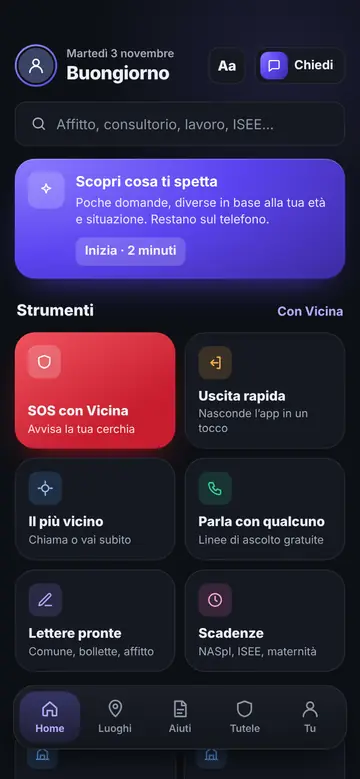
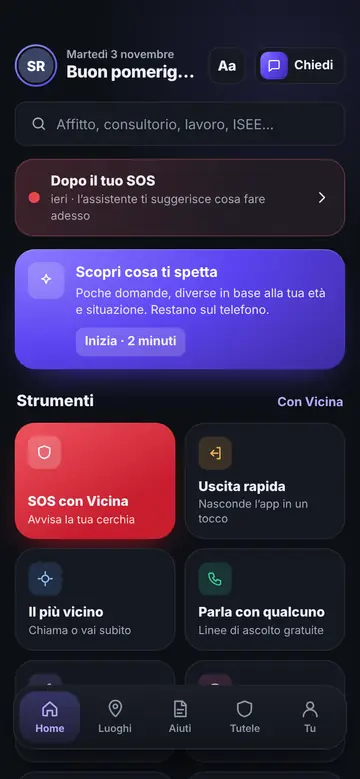
4.5.0: invito a Vicina Extra in chat con tasto Installa, aggiornamenti tra le due app con l'AI da ponte, rilevamento e apertura di Vicina Extra più affidabili
Claude-Session: https://claude.ai/code/session_01R2nNoP8uqX5XBgKxekQTAd

diff --git a/src/app.js b/src/app.js
@@ -396,7 +396,7 @@ export function boot(api, native) {
   }
   /* ================= Vicina Extra: l'app sorella ================= */
   // Le due app si aprono a vicenda con un link e si passano le informazioni (sul telefono, senza server).
-  const EXTRA = { pkg: 'it.vicina.extra', scheme: 'vicinaextra://', apk: 'https://github.com/conaeduardo4-cmyk/vicina-extra/releases/latest/download/VicinaExtra.apk', web: 'https://vicina.netlify.app/extra' };
+  const EXTRA = { pkg: 'it.vicina.extra', scheme: 'vicinaextra://', apk: 'https://github.com/conaeduardo4-cmyk/vicina-extra/releases/latest/download/VicinaExtra.apk', ipa: 'https://github.com/conaeduardo4-cmyk/vicina-extra/releases/latest/download/VicinaExtra.ipa', web: 'https://vicina.netlify.app/extra' };
   const xPack = o => btoa(unescape(encodeURIComponent(JSON.stringify(o)))).replace(/\+/g, '-').replace(/\//g, '_').replace(/=+$/, '');
   const xUnpack = s => { try { return JSON.parse(decodeURIComponent(escape(atob(String(s).replace(/-/g, '+').replace(/_/g, '/'))))); } catch { return null; } };
   const fromExtra = () => { try { return JSON.parse(ls.get('extra:info') || 'null'); } catch { return null; } };
@@ -405,7 +405,7 @@ export function boot(api, native) {
   let xInstalled = false, xFrom = 's-home';
   async function openExtra(path) {
     const url = EXTRA.scheme + path + (path.includes('?') ? '&' : '?') + 'd=' + xPack(forExtra());
-    if (await native.appInstalled?.(EXTRA.pkg)) { try { await native.openUrl(url); return; } catch {} }
+    if (await native.openApp?.(EXTRA.pkg, '', url)) return;
     openExtraScreen();
   }
   async function installExtra(btn) {
@@ -417,10 +417,25 @@ export function boot(api, native) {
     } catch (e) { toast(e?.message || 'Download non riuscito, riprova'); }
     finally { btn.disabled = false; btn.innerHTML = lab; }
   }
+  // tasto «Installa» dell'invito in chat: Android installa subito, iPhone scarica l'IPA, nel browser il sito
+  async function appInvite(btn) {
+    if (await native.openApp?.(EXTRA.pkg, '', EXTRA.scheme + 'vicina?d=' + xPack(forExtra()))) return;
+    const plat = native.isNative ? (native.update?.autoInstall ? 'android' : 'ios') : 'web';
+    if (plat === 'android') return installExtra(btn);
+    if (plat === 'ios' && native.update?.saveIpa) {
+      const lab = btn.innerHTML; btn.disabled = true;
+      try { const f = await native.update.saveIpa(EXTRA.ipa, 'VicinaExtra.ipa', p => { btn.textContent = `Scarico… ${Math.round(p)}%`; }); toast('Scaricata in File › Vicina › Aggiornamenti'); await native.update.shareFile?.(f.uri, 'Vicina Extra'); }
+      catch (e) { toast(e?.message || 'Download non riuscito'); native.openUrl(EXTRA.web); }
+      finally { btn.disabled = false; btn.innerHTML = lab; }
+      return;
+    }
+    native.openUrl(EXTRA.web);
+  }
   const xShots = ['home', 'luoghi', 'aiuti', 'lettere'].map(n => `altra/extra-${n}.webp`);
   const xRow = (ic, c, t, s, a = '', u = '') => `<${a ? 'button' : 'div'} class="v4-row"${a ? ` data-a="${a}"` : ''}${u ? ` data-u="${u}"` : ''}><i class="sq ${c}">${I(ic)}</i><div class="fl"><b>${t}</b><span>${s}</span></div>${a ? I('chev', 'chev') : ''}</${a ? 'button' : 'div'}>`;
   async function rExtra() {
     xInstalled = !!(await native.appInstalled?.(EXTRA.pkg));
+    if (!xAgg && st.uid) setTimeout(xLoadAgg, 0);
     const x = fromExtra(), go = xInstalled ? 'x-open' : '';
     $('#x-chip').textContent = xInstalled ? 'Installata' : native.update?.autoInstall ? 'Non installata' : 'App per Android';
     $('#x-chip').classList.toggle('ok', xInstalled);
@@ -432,6 +447,8 @@ export function boot(api, native) {
       ${xInstalled ? `<button class="btn x-btn" data-a="x-open" data-u="home">${I('heart')}Apri Vicina Extra</button>` : `<button class="btn x-btn" data-a="x-install">${I('share')}${native.update?.autoInstall ? 'Installa Vicina Extra' : 'Scarica Vicina Extra'}</button>`}
       ${x ? `<div class="v4-card">${xRow('check', 'green', 'Collegata' + (x.got ? ' · ' + new Date(x.got).toLocaleDateString('it-IT', { day: 'numeric', month: 'short' }) : ''), (x.saved ? x.saved + ' luoghi salvati · ' : '') + (x.sit?.length ? 'guide scelte per te qui sotto' : 'le due app si sono scambiate le informazioni'))}
         ${(x.sit || []).map(([id, t]) => xRow('book', 'violet', esc(t), 'Apri la guida in Vicina Extra', go || 'open-extra', 'aiuto/' + esc(id))).join('')}</div>` : ''}
+      <h2 class="x-h">Aggiornamenti tra le due app</h2>
+      <div id="x-agg">${xAggHtml()}</div>
       <h2 class="x-h">Vai subito a</h2>
       <div class="v4-card">
         ${xRow('shield', 'violet', 'Centri antiviolenza', 'Il più vicino, con telefono e percorso', go || 'open-extra', 'luoghi/antiviolenza')}
@@ -453,6 +470,42 @@ export function boot(api, native) {
         ${xRow('user', 'green', 'Stesso account', 'Nome, foto e banner sono gli stessi.')}
       </div>
       <p class="v4-note center">L'APK arriva dalle release ufficiali su GitHub.</p>`;
+  }
+  // aggiornamenti: SOS recenti (da qui) + cosa arriva da Vicina Extra, con l'assistente che fa da ponte
+  let xAgg = null, xAi = (() => { try { return JSON.parse(ls.get('x:aggai') || 'null'); } catch { return null; } })();
+  const xWhen = t => new Date(t).toLocaleString('it-IT', { weekday: 'short', day: 'numeric', month: 'short', hour: '2-digit', minute: '2-digit' });
+  const xDur = (a, b) => { const m = Math.round((new Date(b) - new Date(a)) / 60000); return m < 60 ? m + ' min' : Math.round(m / 60) + ' ore'; };
+  function xEvents() {
+    const ev = [], x = fromExtra();
+    for (const s of xAgg?.mine || []) ev.push(['alert', 'red', s.active ? 'SOS in corso' : 'Hai mandato un SOS', xWhen(s.created_at) + (s.resolved_at ? ' · chiuso dopo ' + xDur(s.created_at, s.resolved_at) : '')]);
+    for (const s of xAgg?.got || []) ev.push(['people', 'red', `${esc(s.from_name || 'Qualcuno')} ha chiesto aiuto`, xWhen(s.created_at) + (s.resolved_at ? ' · ora è al sicuro' : '')]);
+    for (const [t, due] of x?.dead || []) { const d = Math.ceil((due - Date.now()) / 864e5); if (d >= 0) ev.push(['clock', 'amber', esc(t), d === 0 ? 'Scade oggi (da Vicina Extra)' : `Scade tra ${d} giorni (da Vicina Extra)`]); }
+    for (const t of x?.docs || []) ev.push(['file', 'violet', esc(t), 'Documento creato in Vicina Extra']);
+    return ev;
+  }
+  function xAggHtml() {
+    const ev = xEvents();
+    return `<div class="v4-card x-ai"><div class="v4-row"><i class="sq violet">${I('spark')}</i><div class="fl"><b>L’assistente fa da ponte</b><span>${xAi?.at ? 'Aggiornato il ' + new Date(xAi.at).toLocaleDateString('it-IT', { day: 'numeric', month: 'short' }) : 'Legge cosa è successo e ti suggerisce i prossimi passi, anche in Vicina Extra.'}</span></div></div>
+      ${xAi?.text ? `<div class="x-ai-t">${esc(xAi.text).replace(/\*\*(.+?)\*\*/g, '<b>$1</b>').replace(/\n/g, '<br>')}</div>` : ''}
+      <button class="btn ghost x-ai-b" data-a="x-agg-ai">${I('spark')}${xAi?.text ? 'Aggiorna il consiglio' : 'Cosa posso fare adesso?'}</button></div>
+      ${ev.length ? `<div class="v4-card">${ev.slice(0, 8).map(([ic, c, t, s]) => xRow(ic, c, t, s)).join('')}</div>` : `<p class="v4-note">Qui compaiono gli SOS degli ultimi 30 giorni e quello che arriva da Vicina Extra (scadenze, documenti).</p>`}`;
+  }
+  async function xLoadAgg() {
+    try { xAgg = await api.recentSos?.(st.uid, 30) || null; } catch { xAgg = null; }
+    const box = $('#x-agg'); if (box) box.innerHTML = xAggHtml();
+  }
+  async function xAggAI(btn) {
+    btn.disabled = true; btn.textContent = 'L’assistente sta leggendo…';
+    const ev = xEvents().map(e => `- ${e[2].replace(/&#39;/g, "'")}: ${e[3]}`);
+    const ctx = ev.length ? 'Cosa è successo di recente (dal più recente):\n' + ev.join('\n') : 'Nessun SOS di recente. La persona vuole sapere come prepararsi e cosa offre Vicina Extra.';
+    try {
+      const base = String(import.meta.env.VITE_SUPABASE_URL || '').replace(/\/+$/, ''), key = import.meta.env.VITE_SUPABASE_ANON_KEY || '';
+      const r = await fetch(base + '/functions/v1/extra-assistente', { method: 'POST', headers: { 'Content-Type': 'application/json', apikey: key, Authorization: 'Bearer ' + key }, body: JSON.stringify({ mode: 'update', context: ctx, device: 'vicina-' + (st.uid || '').slice(0, 8) }) });
+      const j = await r.json().catch(() => ({}));
+      if (!r.ok || !j.reply) throw new Error(j.error || 'L’assistente non risponde, riprova');
+      xAi = { text: j.reply, at: Date.now() }; ls.set('x:aggai', JSON.stringify(xAi));
+    } catch (e) { toast(e.message); }
+    const box = $('#x-agg'); if (box) box.innerHTML = xAggHtml();
   }
   function openExtraScreen() { if (curScreen !== 's-extra') { xFrom = curScreen; show('s-extra', 'in-push'); } rExtra(); }
   const xBack = () => { const k = TABS_BY_SCREEN[xFrom]; if (k) tab(k, 'in-pop'); else show(xFrom || 's-home', 'in-pop'); };
@@ -1101,7 +1154,7 @@ export function boot(api, native) {
     const b = $('#badge'); b.hidden = !n; b.textContent = n > 9 ? '9+' : n; if (glass.supported) syncGlass();
     const hb = $('#h-badge'); if (hb) { hb.hidden = !n; hb.textContent = n > 9 ? '9+' : n; }
   }
-  const preview = m => !m ? '' : m.type === 'image' ? `${m.from === st.uid ? 'Tu: ' : ''}📷 Foto` : m.type === 'file' ? `📎 <span translate="no">${esc(m.fileName || 'File')}</span>` : m.type === 'voice' ? `🎤 Messaggio vocale · ${mmss((m.dur || 0) * 1000)}` : m.type === 'loc' ? '📍 Posizione' : m.type === 'sos' ? `<span class="tag red">SOS</span> ${m.from === st.uid ? 'Inviato da te' : esc(m.fromName)}` : m.type === 'safe' ? `<span class="tag green">OK</span> ${esc(m.fromName)} è al sicuro` : `<span class="raw" translate="no">${esc(m.text)}</span>`;
+  const preview = m => !m ? '' : m.type === 'image' ? `${m.from === st.uid ? 'Tu: ' : ''}📷 Foto` : m.type === 'file' && /^app:/.test(m.file || '') ? '📲 Invito a Vicina Extra' : m.type === 'file' ? `📎 <span translate="no">${esc(m.fileName || 'File')}</span>` : m.type === 'voice' ? `🎤 Messaggio vocale · ${mmss((m.dur || 0) * 1000)}` : m.type === 'loc' ? '📍 Posizione' : m.type === 'sos' ? `<span class="tag red">SOS</span> ${m.from === st.uid ? 'Inviato da te' : esc(m.fromName)}` : m.type === 'safe' ? `<span class="tag green">OK</span> ${esc(m.fromName)} è al sicuro` : `<span class="raw" translate="no">${esc(m.text)}</span>`;
   // «Avvisi» non è più una scheda: conversazioni e SOS in arrivo stanno nella Cerchia
   function rChats() { if (curScreen === 's-circle') rCircle(); }
   const nameIn = (cid, uid) => st.groups.find(g => g.id === cid)?.members.find(m => m.uid === uid)?.name || '';
@@ -1125,6 +1178,10 @@ export function boot(api, native) {
     const tt = `<div class="t">${hhmm(m.at)}${tk}</div>`;
     const cap = m.text ? `<span class="raw cap" translate="no">${esc(m.text)}</span>` : '';
     if (m.type === 'image') return `<div class="msg media ${mine ? '' : 'in'} ${cls}">${who}<button class="mimg" data-a="img-open" data-f="${esc(m.file)}" aria-label="Apri la foto"><img data-f="${esc(m.file)}" alt=""></button>${cap}${tt}</div>`;
+    // invito a un'app (mandato da Vicina Extra): card con il tasto Installa
+    if (m.type === 'file' && /^app:/.test(m.file || '')) {
+      return `<div class="msg ${mine ? '' : 'in'} ${cls}">${who}<div class="mapp"><i class="ma-ic">${I('heart')}</i><span class="fl"><b>Vicina Extra</b><span>Servizi sociali, aiuti e diritti</span></span></div>${cap}${mine ? '' : `<button class="btn ma-go" data-a="app-install">${I('share')}Installa</button>`}${tt}</div>`;
+    }
     if (m.type === 'file') {
       const ext = (String(m.fileName).match(/\.([a-z0-9]{1,5})$/i)?.[1] || 'file').toUpperCase().slice(0, 4);
       return `<div class="msg ${mine ? '' : 'in'} ${cls}">${who}<button class="mfile" data-a="file-open" data-f="${esc(m.file)}" data-n="${esc(m.fileName)}"><i class="mf-ic">${esc(ext)}</i><span class="fl"><b translate="no">${esc(m.fileName || 'File')}</b><span>${fsize(m.fileSize)}</span></span></button>${cap}${tt}</div>`;
@@ -2349,6 +2406,8 @@ export function boot(api, native) {
         case 'x-back': xBack(); break;
         case 'x-open': openExtra(t.dataset.u || 'vicina'); break;
         case 'x-install': installExtra(t); break;
+        case 'app-install': appInvite(t); break;
+        case 'x-agg-ai': xAggAI(t); break;
         case 'ht-add': homeToolsEdit('add', t.dataset.k); break;
         case 'ht-del': homeToolsEdit('del', t.dataset.k); break;
         case 'ht-up': homeToolsEdit('up', t.dataset.k); break;

diff --git a/src/native.js b/src/native.js
@@ -129,8 +129,19 @@ export const native = !isNative ? webNative : {
   // Apre un link fuori dall'app (pagina di download, ecc.)
   async openUrl(url) { try { await AppLauncher.openUrl({ url }); } catch { window.open(url, '_system'); } },
   // un'altra app (per nome del pacchetto su Android): c'è? Se sì la apre, se no apre il sito
-  async appInstalled(pkg) { if (Capacitor.getPlatform() !== 'android') return false; try { return !!(await AppLauncher.canOpenUrl({ url: pkg })).value; } catch { return false; } },
-  async openApp(pkg, web) { if (await this.appInstalled(pkg)) { try { await AppLauncher.openUrl({ url: pkg }); return; } catch { /* sito */ } } await this.openUrl(web); },
+  async appInstalled(pkg) {
+    if (Capacitor.getPlatform() !== 'android') return false;
+    try { return !!(await VN.installed({ pkg })).value; } catch { /* plugin vecchio */ }
+    try { return !!(await AppLauncher.canOpenUrl({ url: pkg })).value; } catch { return false; }
+  },
+  // apre l'app con un link (vicinaextra://…); se non c'è il link, la sua schermata principale; altrimenti il sito
+  async openApp(pkg, web, url) {
+    if (await this.appInstalled(pkg)) {
+      try { await VN.openApp({ pkg, url: url || '' }); return true; } catch { /* sotto */ }
+      try { await AppLauncher.openUrl({ url: url || pkg }); return true; } catch { /* sito */ }
+    }
+    if (web) await this.openUrl(web); return false;
+  },
   // accesso con Google / Apple: pagina di login dentro l'app (Safari View Controller / Chrome Custom Tabs), poi torna con vicina://auth
   async openAuth(url) { try { await Browser.open({ url, presentationStyle: 'popover' }); } catch { await this.openUrl(url); } },
   closeAuth() { Browser.close().catch(() => {}); },

diff --git a/src/v4.css b/src/v4.css
@@ -698,3 +698,14 @@ html.lite #s-home.v4 .sos-ring::before,html.lite #s-home.v4 .sos-ring::after{ani
 @media (prefers-reduced-motion:reduce){.x-phone,.x-scr img,.x-step,.x-ic::after,.x-ic .i{animation:none!important}.x-scr img:first-child{opacity:1}}
 html.lite .x-phone,html.lite .x-ic::after{animation:none}
 #s-extra .fl span,#s-extra .fl b{white-space:normal!important;overflow:visible!important;text-overflow:clip!important;display:block}
+
+/* 4.5: invito a Vicina Extra in chat, aggiornamenti tra le app */
+.mapp{display:flex;gap:10px;align-items:center;min-width:220px;padding:4px 0 6px}
+.ma-ic{width:42px;height:42px;border-radius:12px;background:linear-gradient(145deg,#8B7BFF,#5B43F0);color:#fff;display:grid;place-items:center;flex:none;font-style:normal}
+.ma-ic .i{width:21px;height:21px}
+.mapp b{display:block;font-size:15px}.mapp .fl span{display:block;font-size:12.5px;opacity:.75}
+.ma-go{margin-top:8px;width:100%;min-height:42px!important;border-radius:14px!important;background:linear-gradient(180deg,#7563F6,#5B43F0)!important;color:#fff!important;border:0!important;display:flex;align-items:center;justify-content:center;gap:7px;font-size:14px}
+.ma-go .i{width:17px;height:17px}
+.x-ai{padding-bottom:12px}
+.x-ai-t{margin:0 14px;padding:12px 14px;border-radius:16px;background:var(--s2,#1C1C22);font-size:14px;line-height:1.5}
+.x-ai-b{margin:10px 14px 0!important;width:calc(100% - 28px)!important}

diff --git a/src/api-supabase.js b/src/api-supabase.js
@@ -237,6 +237,16 @@ export function createApi(env) {
       const r = await sb.from('messages').insert({ chat_id: id, type: 'loc', from_uid: uid, lat, lng });
       if (r.error) throw Object.assign(rerr(r.error), /type_chk|check constraint|column/i.test(r.error.message || '') ? { code: 'v31-setup' } : {});
     },
+    // SOS degli ultimi giorni (mandati e ricevuti): per gli aggiornamenti con Vicina Extra
+    async recentSos(uid, days = 30) {
+      const since = new Date(Date.now() - days * 864e5).toISOString();
+      const [a, b] = await Promise.all([
+        sb.from('sos').select('id, created_at, resolved_at, active').eq('from_uid', uid).gte('created_at', since).order('created_at', { ascending: false }).limit(8),
+        sb.from('sos').select('id, from_name, created_at, resolved_at, active').contains('recipients', [uid]).gte('created_at', since).order('created_at', { ascending: false }).limit(8)
+      ]);
+      if (a.error) throw rerr(a.error);
+      return { mine: a.data || [], got: b.data || [] };
+    },
     async fileUrl(p, secs = 3600) {
       const { data, error } = await sb.storage.from('chat').createSignedUrl(p, secs);
       if (error) throw rerr(error); return data.signedUrl;

diff --git a/src/native-web.js b/src/native-web.js
@@ -205,7 +205,7 @@ export const webNative = {
   async openMaps(lat, lng, name, nav) { window.open(mapsLinks(lat, lng, name, nav, 'web').web, '_blank', 'noopener'); },
   async openUrl(url) { window.open(url, '_blank', 'noopener'); },
   async appInstalled() { return false; },
-  async openApp(pkg, web) { window.open(web, '_blank', 'noopener'); },
+  async openApp(pkg, web) { if (web) window.open(web, '_blank', 'noopener'); return false; },
   async openAuth(url) { location.assign(url); },
   closeAuth() {},
   update: {

diff --git a/scripts/android/VicinaNativePlugin.java b/scripts/android/VicinaNativePlugin.java
@@ -57,6 +57,32 @@ public class VicinaNativePlugin extends Plugin {
     /* ---------- icona (modalità anonima) ---------- */
     // altezze delle barre di sistema in dp (= px CSS): la pagina le usa per non finire sotto ora e notifiche
     @PluginMethod
+    public void installed(PluginCall call) {
+        String pkg = call.getString("pkg", "");
+        android.content.pm.PackageManager pm = getContext().getPackageManager();
+        boolean ok = false;
+        try { pm.getPackageInfo(pkg, 0); ok = true; } catch (Exception e) { try { ok = pm.getLaunchIntentForPackage(pkg) != null; } catch (Exception ignored) { } }
+        JSObject r = new JSObject(); r.put("value", ok); call.resolve(r);
+    }
+
+    // apre un'altra app (Vicina Extra) con un link: l'intent va solo a quell'app
+    @PluginMethod
+    public void openApp(PluginCall call) {
+        String pkg = call.getString("pkg", ""), url = call.getString("url", "");
+        android.content.Context ctx = getContext();
+        try {
+            android.content.Intent i;
+            if (url.length() > 0) { i = new android.content.Intent(android.content.Intent.ACTION_VIEW, android.net.Uri.parse(url)); i.setPackage(pkg); }
+            else i = ctx.getPackageManager().getLaunchIntentForPackage(pkg);
+            if (i == null) { call.reject("App non installata"); return; }
+            i.addFlags(android.content.Intent.FLAG_ACTIVITY_NEW_TASK);
+            try { ctx.startActivity(i); }
+            catch (Exception e) { android.content.Intent l = ctx.getPackageManager().getLaunchIntentForPackage(pkg); if (l == null) throw e; l.addFlags(android.content.Intent.FLAG_ACTIVITY_NEW_TASK); ctx.startActivity(l); }
+            call.resolve();
+        } catch (Exception e) { call.reject("Non riesco ad aprire l'app: " + e.getMessage()); }
+    }
+
+    @PluginMethod
     public void insets(PluginCall call) {
         getActivity().runOnUiThread(() -> {
             JSObject r = new JSObject();
